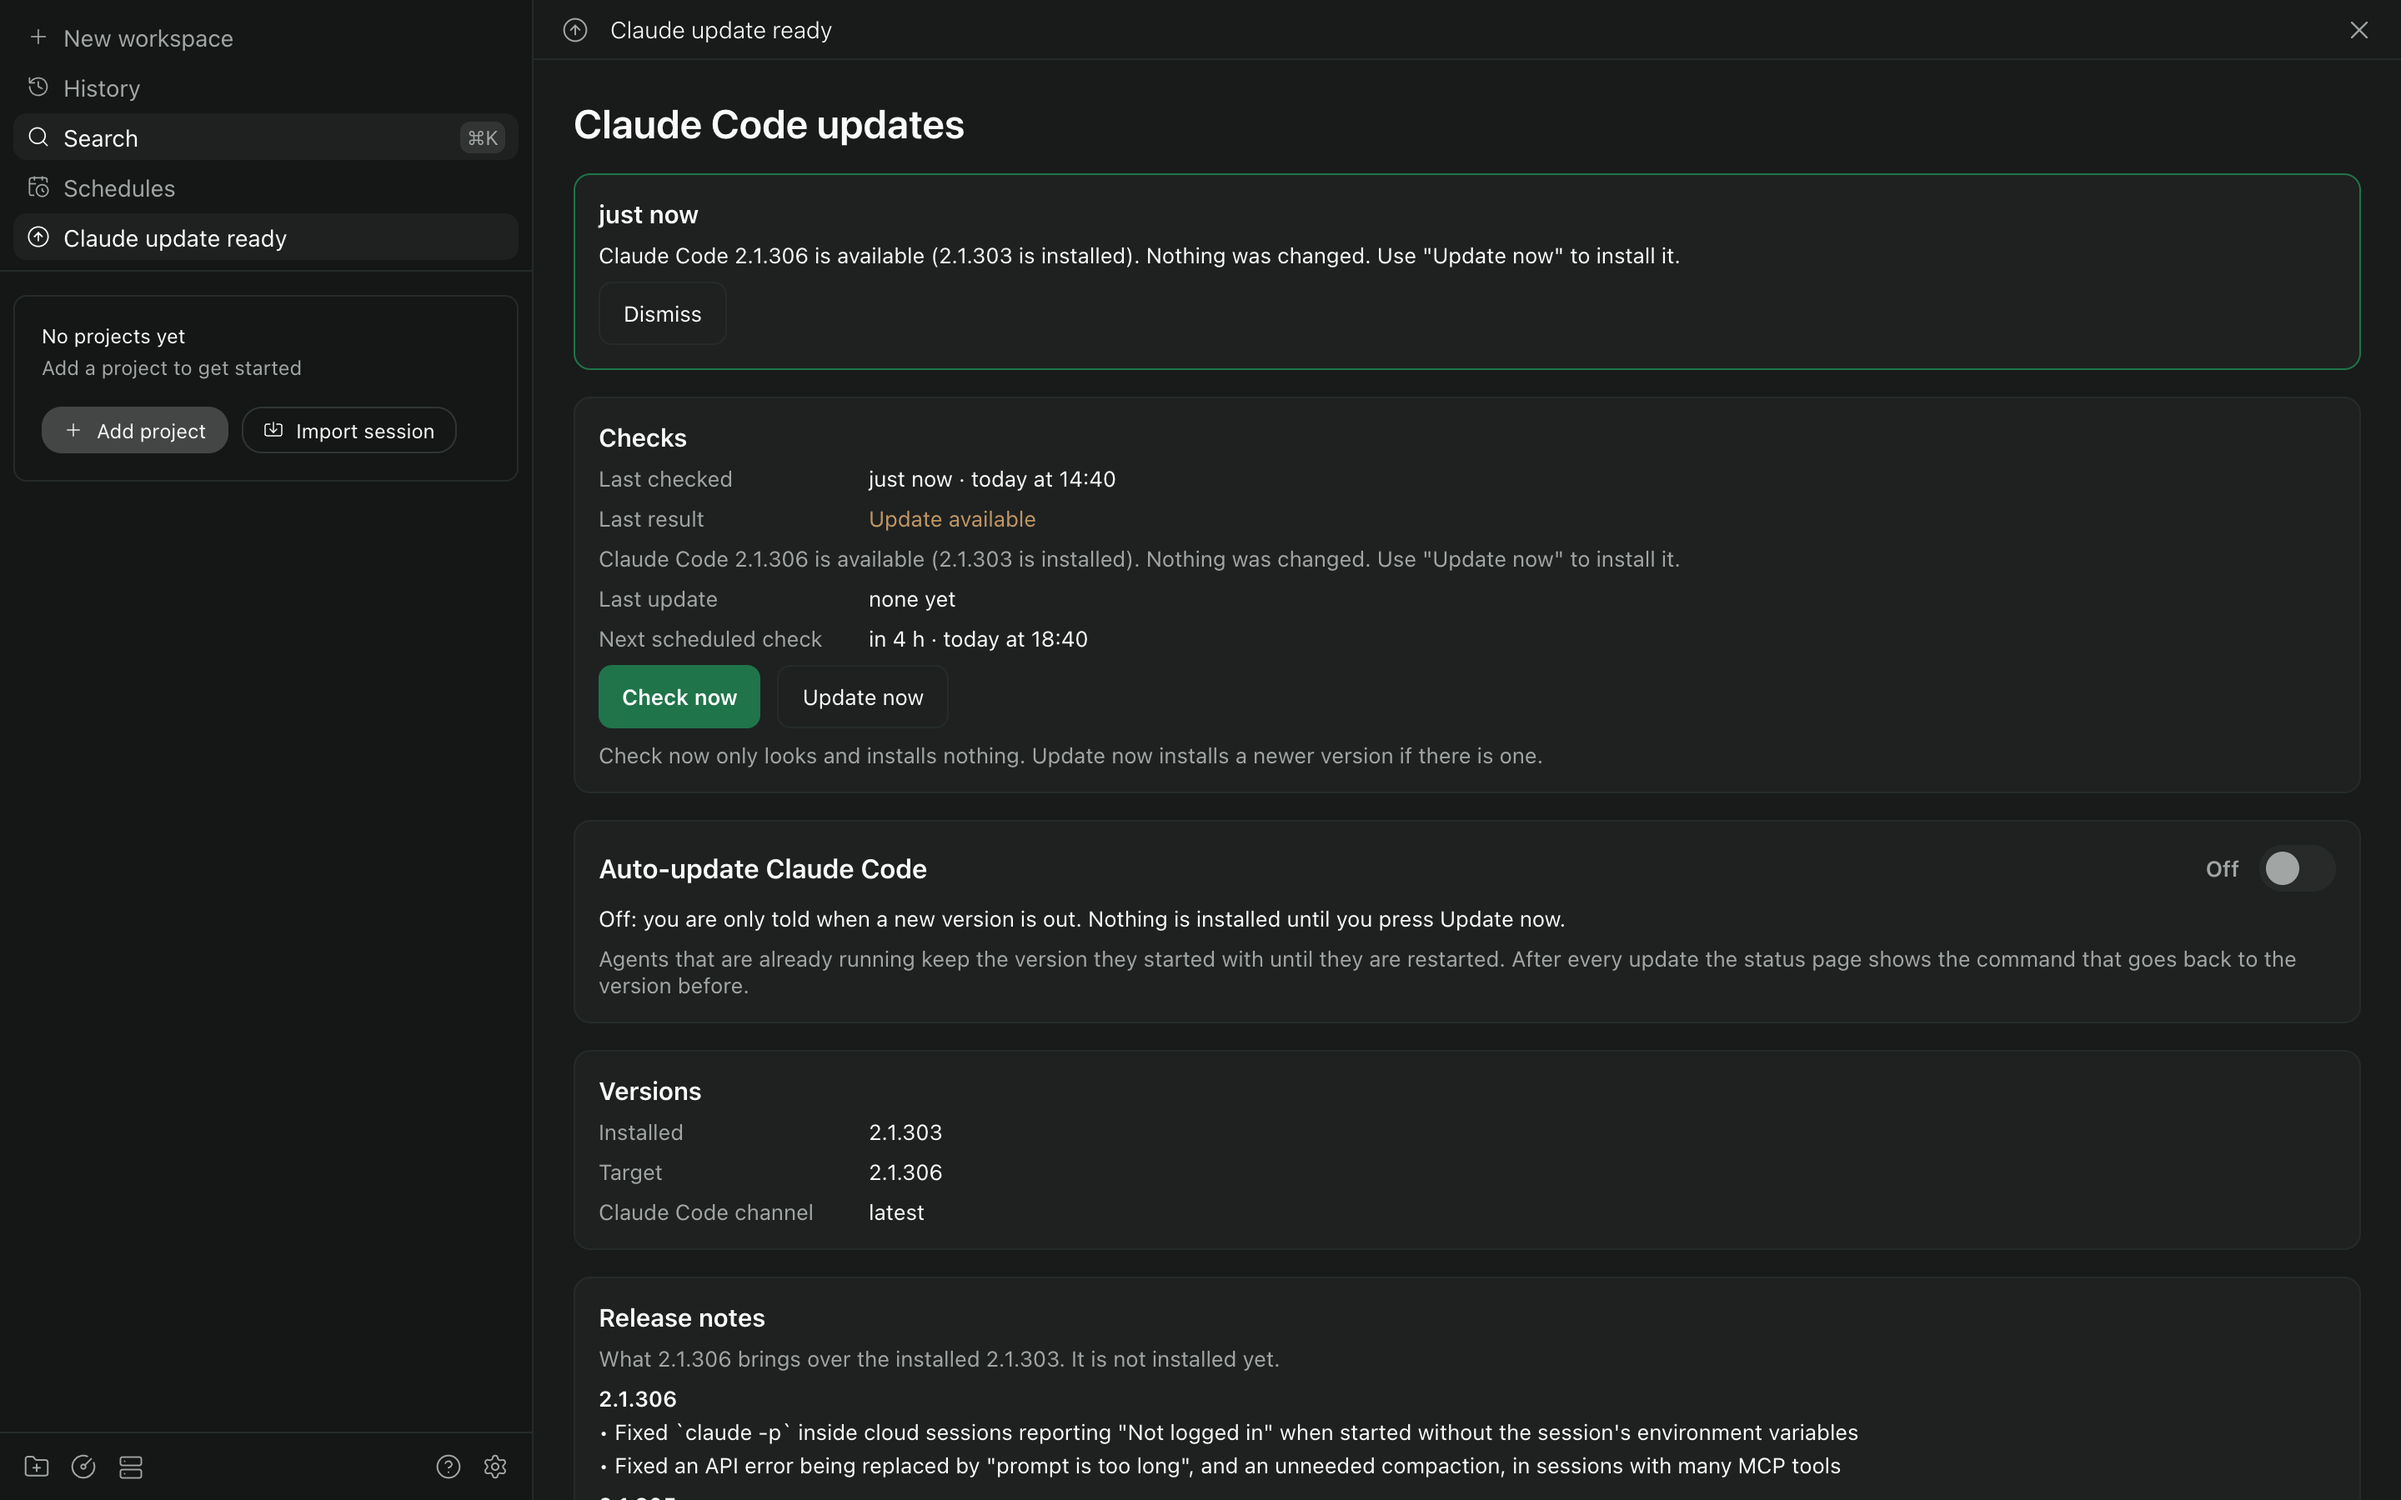
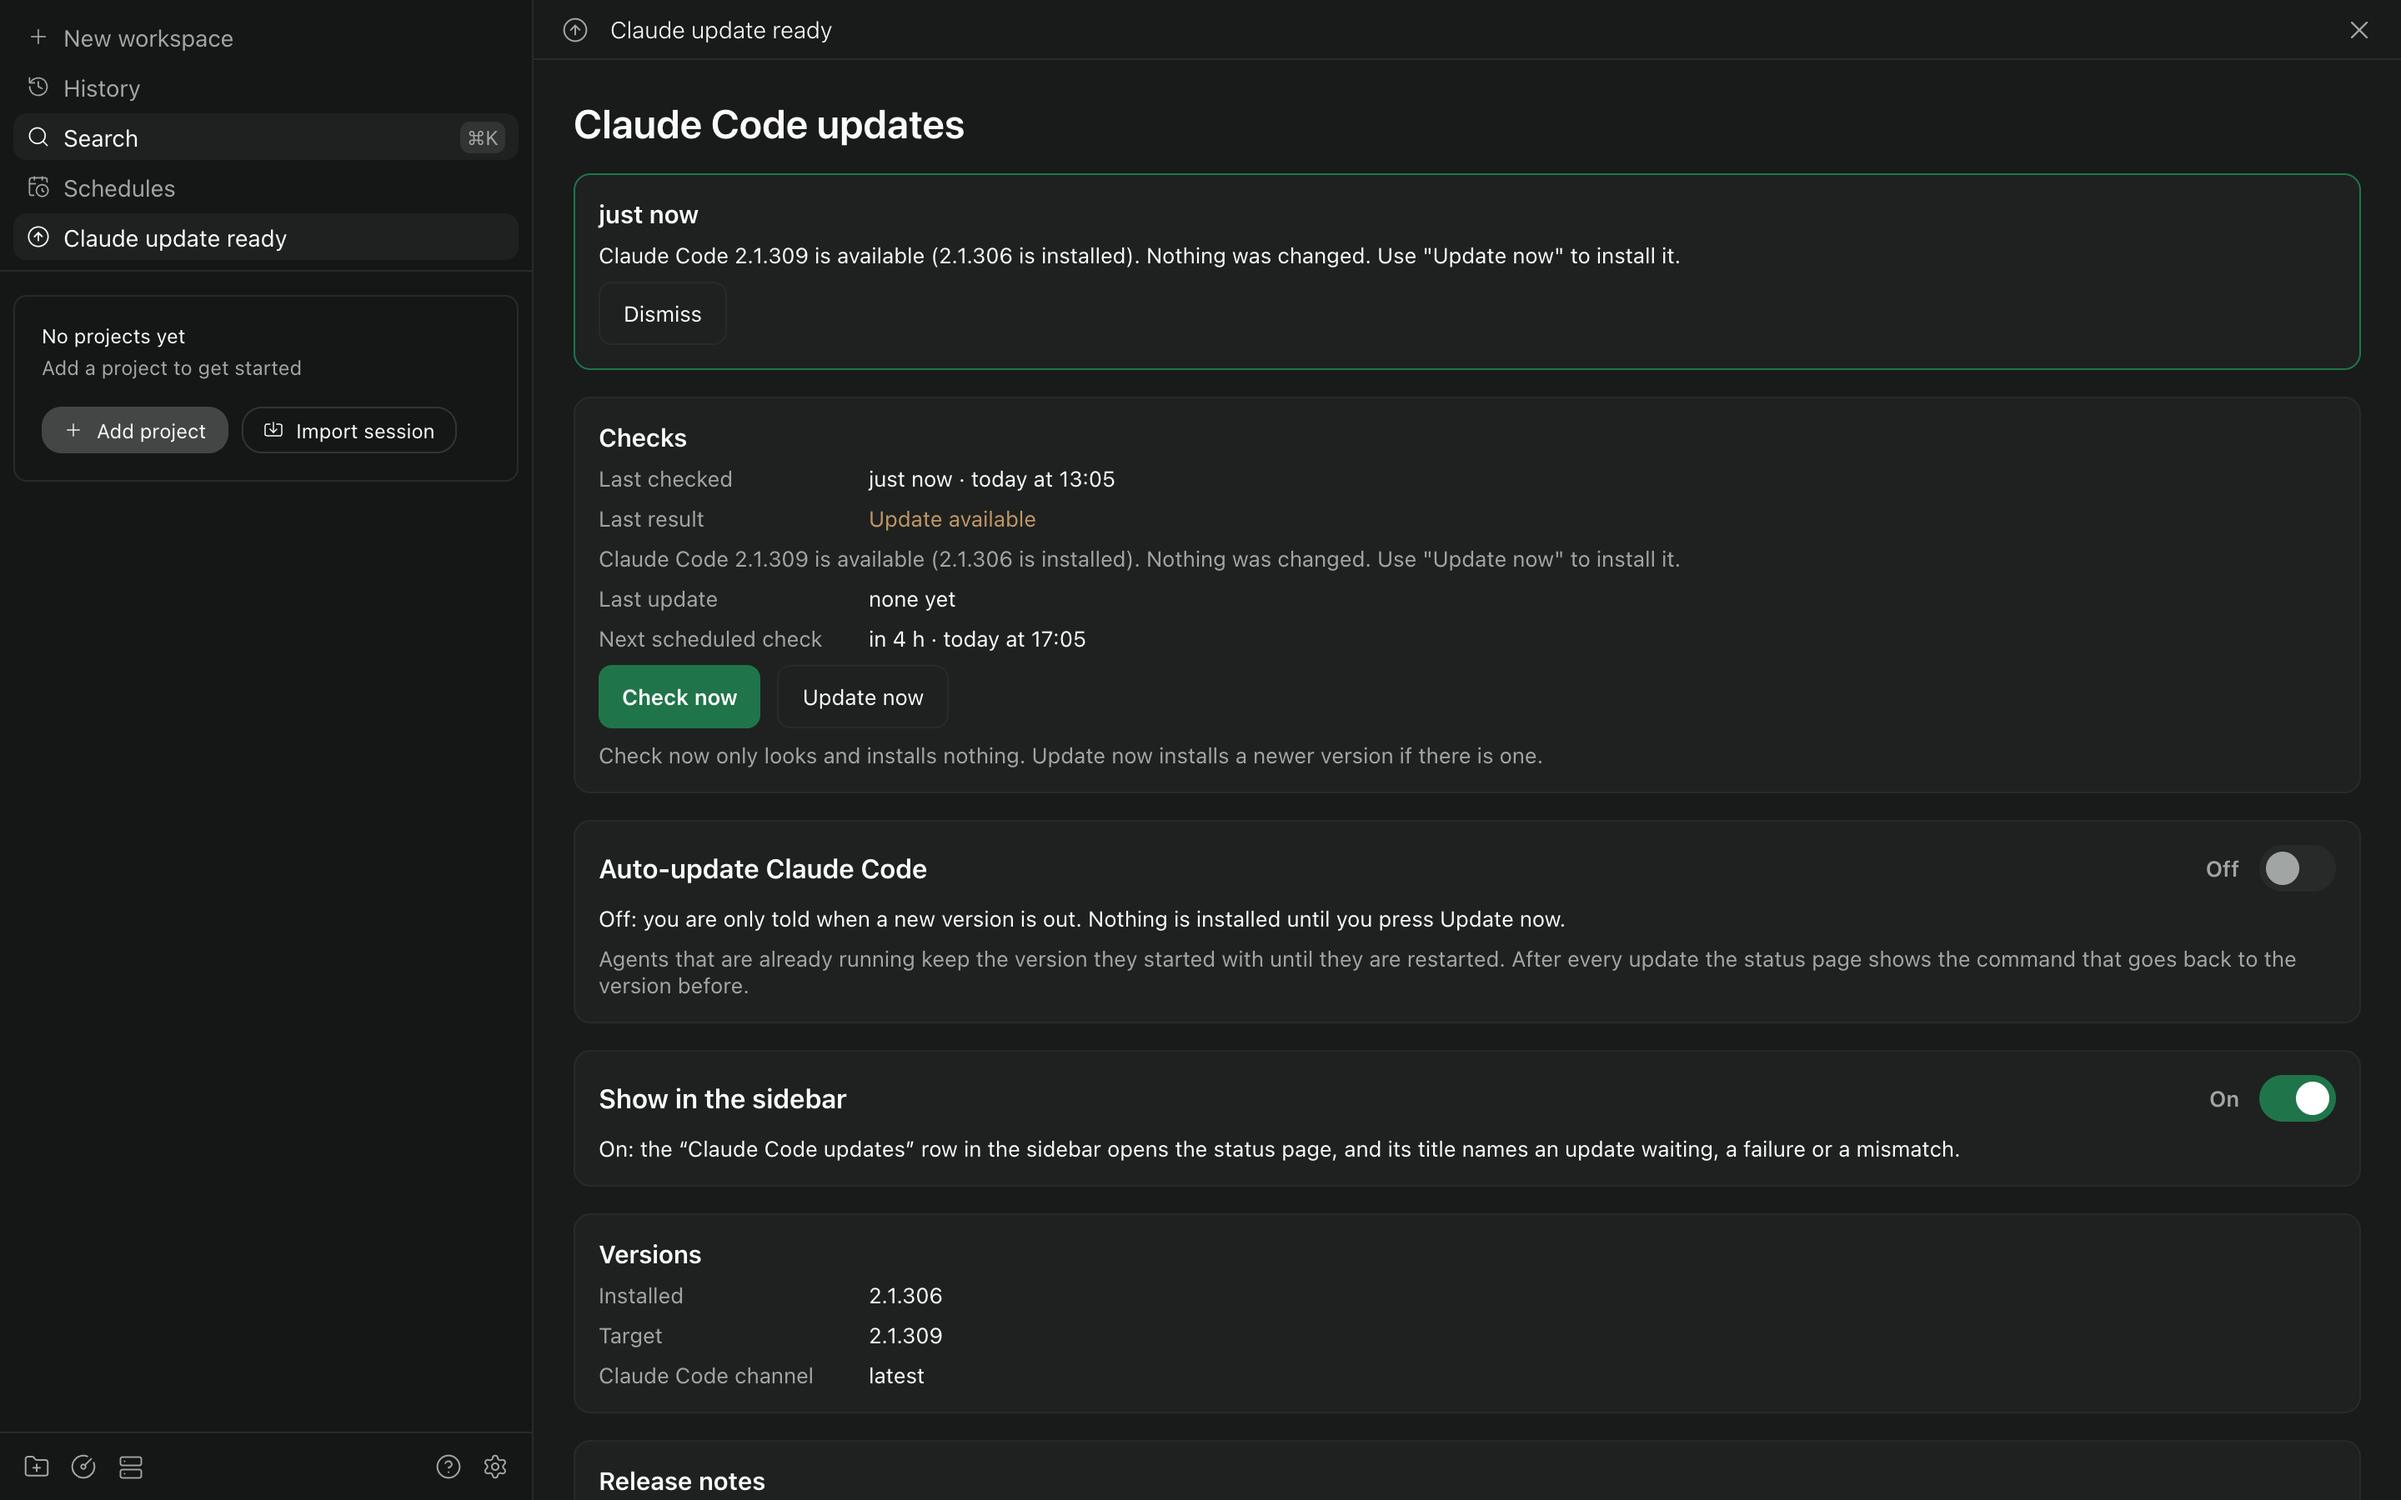
Release 0.3.0

Changed region(s): [[0.25, 0.7156, 0.7812, 1.0], [0.9375, 0.7156, 0.9688, 0.7467], [0.7812, 0.7467, 0.8125, 0.7778]]

diff --git a/CHANGELOG.md b/CHANGELOG.md
@@ -3,7 +3,7 @@
 All notable changes to this plugin are listed here. Versions follow [semantic versioning](https://semver.org).
 A version marked "not published" was finished but never reached npm; its changes are in the next published one.
 
-## Unreleased
+## 0.3.0 - 2026-10-23
 
 - A "Show in the sidebar" switch, on the status page and in the settings, takes the "Claude Code updates" sidebar row away. It is on by default, so nothing changes until it is switched off, and the row comes back as soon as it is on again. With the row off, the status page is opened from the Command Center ("Claude Code updates: open status"); the notices, desktop notifications and the settings screen's "Checks" lines are unchanged. The status RPC reports `showInSidebar`.
 
